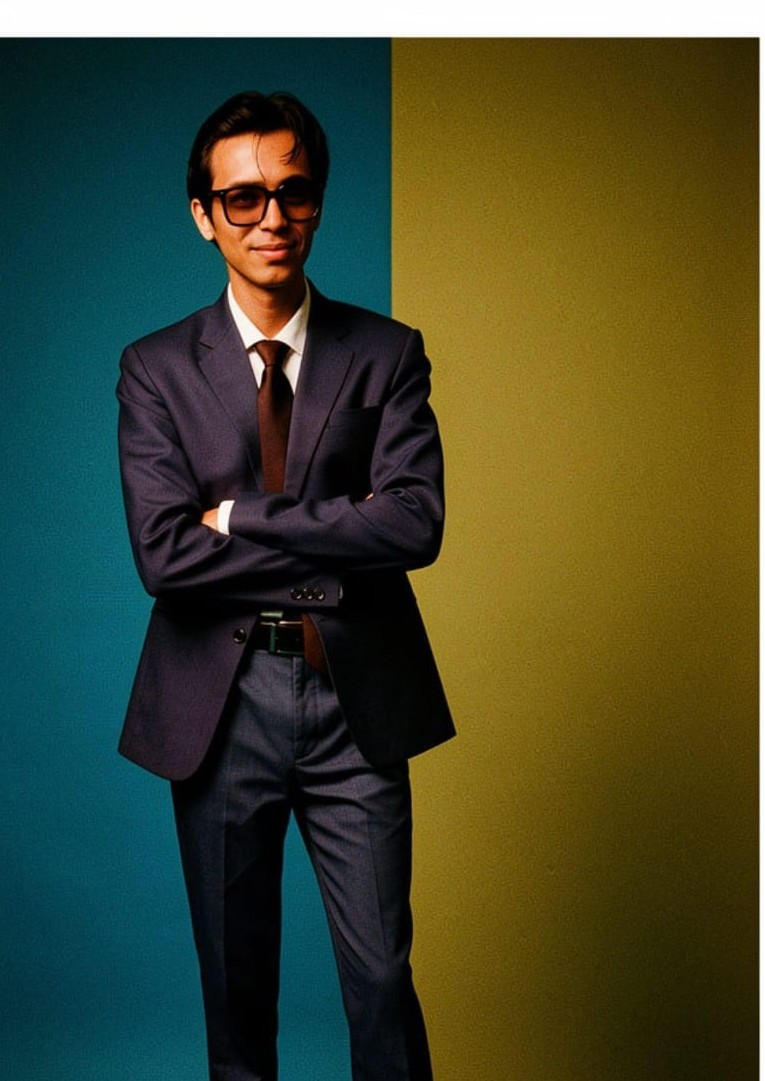
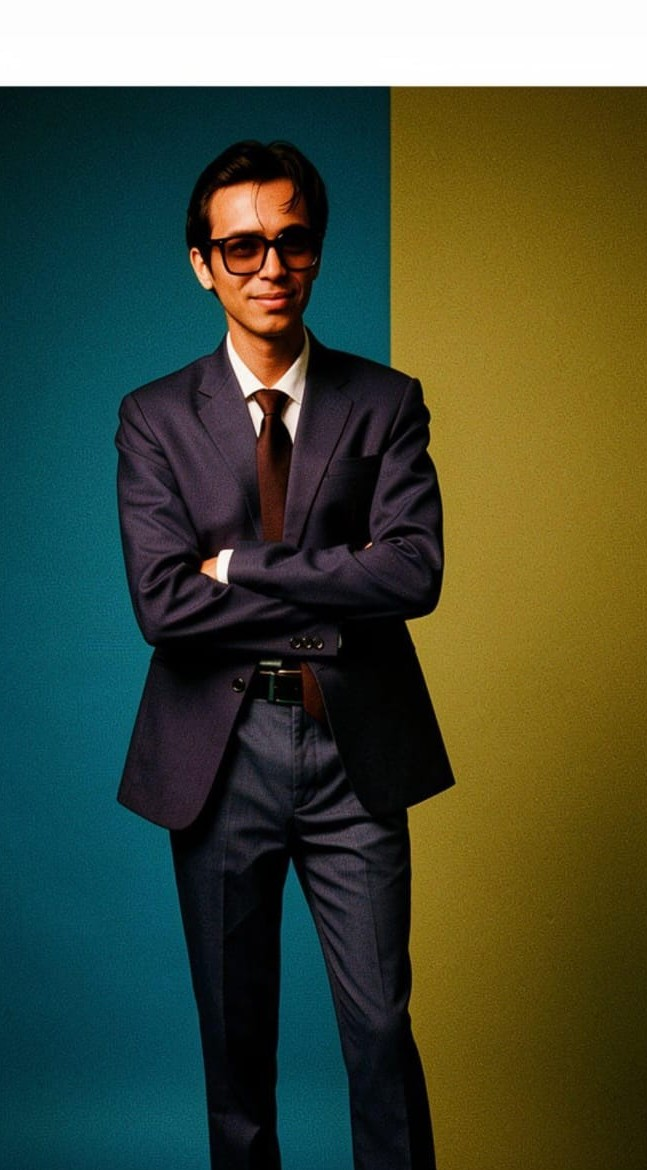
Update in Skills

diff --git a/index.html b/index.html
@@ -17,7 +17,7 @@
 </head>
 <body>
   <header class="header" id="top">
-    <a class="logo" href="#home">Ruthik<span>.</span></a>
+    <a class="logo" href="#home">Portfolio<span>.</span></a>
     <button class="menu-toggle" id="menuToggle" aria-label="Open navigation" aria-expanded="false" aria-controls="navbar"><span></span><span></span><span></span></button>
     <nav class="navbar" id="navbar" aria-label="Main navigation">
       <a class="active" href="#home">Home</a><a href="#about">About</a><a href="#experience">Experience</a><a href="#projects">Projects</a><a href="#research">Research</a><a href="#skills">Skills</a><a href="#contact">Contact</a>
@@ -33,17 +33,17 @@
         <p class="home-summary">I build intelligent applications with machine learning, LLMs and agentic systems — combining research curiosity with practical engineering.</p>
         <div class="social-media">
           <a href="https://www.linkedin.com/in/ruthik-garapati-793047268/" target="_blank" rel="noopener noreferrer" aria-label="LinkedIn">in</a>
-          <a href="https://github.com/garapatiruthik" target="_blank" rel="noopener noreferrer" aria-label="GitHub">⌘</a>
-          <a href="mailto:garapatiruthik@gmail.com" aria-label="Email">@</a>
+          <a href="https://github.com/garapatiruthik" target="_blank" rel="noopener noreferrer" aria-label="GitHub"><svg viewBox="0 0 24 24" aria-hidden="true" focusable="false"><path fill="currentColor" d="M12 .5a12 12 0 0 0-3.79 23.39c.6.11.82-.26.82-.58v-2.23c-3.34.73-4.04-1.42-4.04-1.42-.55-1.4-1.33-1.77-1.33-1.77-1.09-.75.08-.74.08-.74 1.2.08 1.83 1.23 1.83 1.23 1.07 1.82 2.8 1.3 3.49.99.11-.78.42-1.3.76-1.6-2.67-.3-5.47-1.34-5.47-5.95 0-1.32.47-2.39 1.23-3.23-.12-.3-.53-1.53.12-3.18 0 0 1-.32 3.3 1.23a11.5 11.5 0 0 1 6 0c2.29-1.55 3.29-1.23 3.29-1.23.65 1.65.24 2.88.12 3.18.77.84 1.23 1.91 1.23 3.23 0 4.62-2.8 5.64-5.48 5.94.43.37.81 1.1.81 2.22v3.3c0 .32.22.69.83.58A12 12 0 0 0 12 .5Z"/></svg></a>
+          <a href="mailto:garapatiruthik@gmail.com" aria-label="Email"><svg viewBox="0 0 24 24" aria-hidden="true" focusable="false"><rect x="3" y="5" width="18" height="14" rx="2" fill="none" stroke="currentColor" stroke-width="2"/><path d="m4 7 8 6 8-6" fill="none" stroke="currentColor" stroke-width="2" stroke-linecap="round" stroke-linejoin="round"/></svg></a>
         </div>
         <div class="home-actions">
-          <a class="btn" href="assets/Ruthik_Garapati_Resume.pdf" download="Ruthik_Garapati_Resume.pdf">Download CV <span>↓</span></a>
+          <a class="btn" href="Ruthik_Garapati_Resume.pdf" download="Ruthik_Garapati_Resume.pdf" type="application/pdf">Download CV <span>↓</span></a>
           <a class="btn btn-outline" href="#projects">Explore projects <span>↘</span></a>
         </div>
         <div class="hero-meta"><span><i></i> OPEN TO AI / ML OPPORTUNITIES</span><span>INDIA · SWEDEN EXPERIENCE</span></div>
       </div>
       <div class="home-img reveal reveal-delay">
-        <div class="photo-frame"><img src="photo-portfolio.jpeg" alt="Portrait of Ruthik Garapati" class="profile-image"></div>
+        <div class="photo-frame"><img src="photo-portfolio.jpg" alt="Portrait of Ruthik Garapati" class="profile-image"></div>
               </div>
     </section>
 
@@ -76,13 +76,12 @@
       <div class="section-heading reveal"><p class="section-kicker">03 / SELECTED PROJECTS</p><h2>Things I've <span>built & explored.</span></h2><p class="section-summary">A concise selection. Hover over a visual to reveal its project link; open the details for more context.</p></div>
       <div class="project-filters reveal" role="group" aria-label="Filter projects"><button class="filter active" data-filter="all" aria-pressed="true">All</button><button class="filter" data-filter="ai" aria-pressed="false">AI / GenAI</button><button class="filter" data-filter="ml" aria-pressed="false">ML / Data</button><button class="filter" data-filter="research" aria-pressed="false">Research</button></div>
       <div class="project-grid" id="projectGrid">
-        <article class="project-card reveal" data-category="ai"><div class="project-art art-travel"><span class="art-number">01 / AGENTIC AI</span><div class="mini-map"><i></i><b>A</b><b>B</b><b>C</b></div><div class="art-caption"><small>TRIP BUILDER</small><strong>Plan within budget.</strong><span>Transport · Stay · Itinerary</span></div><a class="art-link" href="https://github.com/garapatiruthik/Project-Agentic-AI" target="_blank" rel="noopener noreferrer" aria-label="Open AI Travel Planner GitHub repository">View project ↗</a></div><div class="project-body"><span class="project-type">LANGGRAPH · MCP · LLMS</span><h3>AI Travel Planner</h3><p>Agentic travel planning with transport, accommodation and itinerary tools, plus a budget-auditing feedback loop.</p><details class="more-details"><summary>Project details</summary><p>Uses LangGraph orchestration and custom MCP servers to connect external services such as maps, flight information and web search. The planner revises selections when the estimated trip cost exceeds the user's budget.</p></details></div></article>
-        <article class="project-card reveal" data-category="ai"><div class="project-art art-rag"><span class="art-number">02 / RETRIEVAL SYSTEMS</span><div class="doc-visual"><div></div><div></div><div></div></div><div class="rag-chip">SEMANTIC SEARCH <b>↗</b></div><a class="art-link" href="#experience" aria-label="View RAG screening experience">View experience ↗</a></div><div class="project-body"><span class="project-type">JUSTERA GROUP · PROFESSIONAL WORK</span><h3>RAG Resume Intelligence</h3><p>Retrieval-grounded resume screening workflow built to process 5,000+ documents, with AWS-supported inference and storage.</p><details class="more-details"><summary>Project details</summary><p>Focused on document processing and information retrieval to support candidate discovery. This was professional work, so implementation details and private data are not exposed in a public repository.</p></details></div></article>
-        <article class="project-card reveal" data-category="research"><div class="project-art art-thesis"><span class="art-number">03 / RESEARCH</span><div class="thesis-chart"><div><span>Chronos-T5</span><i class="bar long"></i><b>1.35 s</b></div><div><span>Mamba</span><i class="bar short"></i><b>7.16 ms</b></div></div><small>INFERENCE TIME · EVALUATED SETUP</small><a class="art-link" href="https://bth.diva-portal.org/smash/record.jsf?pid=diva2:2085482" target="_blank" rel="noopener noreferrer" aria-label="Open thesis research record">Read research ↗</a></div><div class="project-body"><span class="project-type">BACHELOR'S THESIS · BTH</span><h3>Chronos-T5 vs. Mamba</h3><p>Comparative analysis of foundation-model and state-space approaches for urban traffic forecasting on METR-LA.</p><details class="more-details"><summary>Key findings</summary><p>Chronos-T5 achieved lower MAE (1.58 mph vs. 4.57 mph), while Mamba showed faster inference (7.16 ms vs. 1.35 s) and lower KL divergence (1.07 vs. 16.45 bits). Weather covariates reduced Mamba's error by 10.57% in the evaluated setup.</p></details></div></article>
-        <article class="project-card reveal" data-category="ml"><div class="project-art art-vision"><span class="art-number">04 / COMPUTER VISION</span><div class="face-box"><span></span><i></i><b></b></div><div class="vision-label">MEDIAPIPE LANDMARKS</div><a class="art-link" href="https://github.com/garapatiruthik/Facial-Intoxication-detection" target="_blank" rel="noopener noreferrer" aria-label="Open facial intoxication detection repository">View project ↗</a></div><div class="project-body"><span class="project-type">OPENCV · MEDIAPIPE · RANDOM FOREST</span><h3>Facial Intoxication Detection</h3><p>Computer-vision prototype extracting facial measurements with MediaPipe and classifying feature patterns using Random Forest.</p><details class="more-details"><summary>Project details & limitations</summary><p>Built as an educational ML prototype with a Streamlit interface. It is not validated for medical, legal or safety-critical decisions.</p></details></div></article>
-        <article class="project-card reveal" data-category="ml"><div class="project-art art-dashboard"><span class="art-number">05 / DATA & BI</span><div class="dashboard-mini"><div class="dash-kpis"><i></i><i></i><i></i></div><div class="dash-bars"><b></b><b></b><b></b><b></b><b></b><b></b><b></b></div><small>BUSINESS OVERVIEW</small></div><a class="art-link" href="#experience" aria-label="View data analyst experience">View experience ↗</a></div><div class="project-body"><span class="project-type">PYTHON · PANDAS · STREAMLIT</span><h3>Salon Business Intelligence</h3><p>Interactive business dashboard exploring revenue, customer spending, visit frequency and repeat-customer patterns.</p><details class="more-details"><summary>Project details</summary><p>Cleaned and transformed business records into analysis-ready data, then presented key indicators through a Streamlit dashboard.</p></details></div></article>
-        <article class="project-card reveal" data-category="ai"><div class="project-art art-ticket"><span class="art-number">06 / HACKATHON</span><div class="ticket-visual"><b>TP</b><div><small>TICKET PRANALI</small><strong>MUSEUM ENTRY</strong><span>CHAT · BOOK · EXPLORE</span></div></div><a class="art-link" href="#recognition" aria-label="View Ticket Pranali hackathon recognition">View achievement ↗</a></div><div class="project-body"><span class="project-type">SMART INDIA HACKATHON · INTERNAL ROUND</span><h3>Ticket Pranali</h3><p>Museum ticketing concept with multilingual chatbot booking, time slots, visitor sequencing and indoor navigation ideas.</p><details class="more-details"><summary>Project details</summary><p>Led the team in shaping a visitor-focused solution combining conversational booking, payment concepts and analytics for museum operations. Won third prize in the internal round.</p></details></div></article>
-        <article class="project-card reveal" data-category="ai"><div class="project-art art-code"><span class="art-number">07 / IN DEVELOPMENT</span><div class="code-window"><span>agent.inspect()</span><span>agent.map_dependencies()</span><span>agent.generate_tests()</span><b>✓ architecture summary</b><b>↻ test generation</b></div><a class="art-link" href="#contact" aria-label="Discuss the codebase analyzer project">Discuss project ↗</a></div><div class="project-body"><span class="project-type">LANGGRAPH · MCP · PYTEST</span><h3>Agentic Codebase Analyzer</h3><p>In-progress developer tool for repository inspection, dependency mapping, technical documentation and automated test generation.</p><details class="more-details"><summary>Current scope</summary><p>Designed to inspect Python project structure, generate architecture summaries and pytest cases, then analyse execution failures. Public repository and measured benchmark results are not yet ready to showcase.</p></details></div></article>
+        <article class="project-card reveal" data-category="ai"><div class="project-art"><img class="project-image" src="TravelPlanner.png" alt="AI Travel Planner project preview" loading="lazy"><span class="art-number">01 / AGENTIC AI</span><span class="art-project-name">AI Travel Planner</span><a class="art-link" href="https://github.com/garapatiruthik/Project-Agentic-AI" target="_blank" rel="noopener noreferrer" aria-label="Open AI Travel Planner GitHub repository">View project ↗</a></div><div class="project-body"><span class="project-type">LANGGRAPH · MCP · LLMS</span><h3>AI Travel Planner</h3><p>Agentic travel planning with transport, accommodation and itinerary tools, plus a budget-auditing feedback loop.</p><details class="more-details"><summary>Project details</summary><p>Uses LangGraph orchestration and custom MCP servers to connect external services such as maps, flight information and web search. The planner revises selections when the estimated trip cost exceeds the user's budget.</p></details></div></article>
+        <article class="project-card reveal" data-category="ai"><div class="project-art"><img class="project-image" src="CodeAnalyzer.png" alt="Agentic Codebase Analyzer project preview" loading="lazy"><span class="art-number">07 / IN DEVELOPMENT</span><span class="art-project-name">Agentic Codebase Analyzer</span><a class="art-link" href="#contact" aria-label="Discuss the codebase analyzer project">Discuss project ↗</a></div><div class="project-body"><span class="project-type">LANGGRAPH · MCP · PYTEST</span><h3>Agentic Codebase Analyzer</h3><p>In-progress developer tool for repository inspection, dependency mapping, technical documentation and automated test generation.</p><details class="more-details"><summary>Current scope</summary><p>Designed to inspect Python project structure, generate architecture summaries and pytest cases, then analyse execution failures. Public repository and measured benchmark results are not yet ready to showcase.</p></details></div></article>
+        <article class="project-card reveal" data-category="ml"><div class="project-art"><img class="project-image" src="SportsAnalytics.png" alt="Sports Performance Analysis project preview" loading="lazy"><span class="art-number">08 / SPORTS ANALYTICS</span><span class="art-project-name">Sports Performance Analysis</span><a class="art-link" href="#recognition" aria-label="View sports analytics hackathon achievement">View achievement ↗</a></div><div class="project-body"><span class="project-type">MEDIAPIPE · PYTHON · MACHINE LEARNING</span><h3>Sports Performance Analysis</h3><p>MediaPipe-based sports performance analysis system with pose tracking and an accompanying sports trainer web application.</p><details class="more-details"><summary>Project details</summary><p>Developed as part of a hackathon team, contributing as AI lead and ideation lead to a solution focused on analysing athletic movements and supporting sports training.</p></details></div></article>
+        <article class="project-card reveal" data-category="ml"><div class="project-art"><img class="project-image" src="FaceDetection.png" alt="Facial Intoxication Detection project preview" loading="lazy"><span class="art-number">04 / COMPUTER VISION</span><span class="art-project-name">Facial Intoxication Detection</span><a class="art-link" href="https://github.com/garapatiruthik/Facial-Intoxication-detection" target="_blank" rel="noopener noreferrer" aria-label="Open facial intoxication detection repository">View project ↗</a></div><div class="project-body"><span class="project-type">OPENCV · MEDIAPIPE · RANDOM FOREST</span><h3>Facial Intoxication Detection</h3><p>Computer-vision prototype extracting facial measurements with MediaPipe and classifying feature patterns using Random Forest.</p><details class="more-details"><summary>Project details & limitations</summary><p>Built as an educational ML prototype with a Streamlit interface. It is not validated for medical, legal or safety-critical decisions.</p></details></div></article>
+        <article class="project-card reveal" data-category="ml"><div class="project-art"><img class="project-image" src="BusinessIntelligence.png" alt="Salon Business Intelligence project preview" loading="lazy"><span class="art-number">05 / DATA & BI</span><span class="art-project-name">Salon Business Intelligence</span><a class="art-link" href="#experience" aria-label="View data analyst experience">View experience ↗</a></div><div class="project-body"><span class="project-type">PYTHON · PANDAS · STREAMLIT</span><h3>Salon Business Intelligence</h3><p>Interactive business dashboard exploring revenue, customer spending, visit frequency and repeat-customer patterns.</p><details class="more-details"><summary>Project details</summary><p>Cleaned and transformed business records into analysis-ready data, then presented key indicators through a Streamlit dashboard.</p></details></div></article>
+        <article class="project-card reveal" data-category="ai"><div class="project-art"><img class="project-image" src="TicketPranali.png" alt="Ticket Pranali project preview" loading="lazy"><span class="art-number">06 / HACKATHON</span><span class="art-project-name">Ticket Pranali</span><a class="art-link" href="#recognition" aria-label="View Ticket Pranali hackathon recognition">View achievement ↗</a></div><div class="project-body"><span class="project-type">SMART INDIA HACKATHON · INTERNAL ROUND</span><h3>Ticket Pranali</h3><p>Museum ticketing concept with multilingual chatbot booking, time slots, visitor sequencing and indoor navigation ideas.</p><details class="more-details"><summary>Project details</summary><p>Led the team in shaping a visitor-focused solution combining conversational booking, payment concepts and analytics for museum operations. Won third prize in the internal round.</p></details></div></article>
       </div>
     </section>
 
@@ -96,9 +95,10 @@
       <div class="skills-grid">
         <article class="skill-card reveal"><span>01</span><h3>Generative AI & agentic systems</h3><p>LLMs · LangChain · LangGraph · RAG · MCP · LoRA · Soup · Tool calling</p></article>
         <article class="skill-card reveal"><span>02</span><h3>Machine learning & vision</h3><p>PyTorch · TensorFlow · scikit-learn · OpenCV · MediaPipe · Time-series modelling</p></article>
-        <article class="skill-card reveal"><span>03</span><h3>Data & analytics</h3><p>Python · Pandas · NumPy · SQL · Streamlit · Plotly · EDA</p></article>
-        <article class="skill-card reveal"><span>04</span><h3>Software & cloud</h3><p>FastAPI · AWS · Docker · Git · Linux · REST APIs · Java · C</p></article>
-        <article class="skill-card reveal"><span>05</span><h3>Web foundations</h3><p>Angular · TypeScript · JavaScript · HTML · CSS · React · Firebase · Spring Boot fundamentals</p></article>
+        <article class="skill-card reveal"><span>03</span><h3>Programming languages</h3><p>Python · Java · C · SQL</p></article>
+        <article class="skill-card reveal"><span>04</span><h3>Data & analytics</h3><p>Pandas · NumPy · Streamlit · Plotly · EDA</p></article>
+        <article class="skill-card reveal"><span>05</span><h3>Software & cloud</h3><p>FastAPI · AWS · Docker · Git · Linux · REST APIs</p></article>
+        <article class="skill-card reveal"><span>06</span><h3>Web foundations</h3><p>Angular · TypeScript · JavaScript · HTML · CSS · React · Firebase · Spring Boot fundamentals</p></article>
       </div>
     </section>
 

diff --git a/portfoliowebsite.css b/portfoliowebsite.css
@@ -11,12 +11,20 @@
 @media(max-width:950px){.navbar{gap:14px}.navbar a{font-size:12px}.project-grid{grid-template-columns:repeat(2,minmax(0,1fr))}.home{gap:4%}.home h1{font-size:clamp(45px,6vw,65px)}}
 @media(max-width:700px){.header{padding:13px 5%}.menu-toggle{display:flex;flex-direction:column;gap:5px;padding:9px;border:1px solid var(--line);border-radius:7px}.menu-toggle span{width:22px;height:2px;background:var(--text)}.navbar{display:none;position:absolute;top:100%;left:0;right:0;background:#252c36;padding:12px 6% 18px;flex-direction:column;align-items:stretch;gap:0;border-bottom:1px solid var(--line)}.navbar.open{display:flex}.navbar a{padding:10px 0;border-bottom:1px solid var(--line);font-size:14px}.home{grid-template-columns:1fr;min-height:auto;padding-top:45px;gap:30px}.home-img{grid-row:1;width:min(68%,330px);justify-self:center}.home-content{grid-row:2}.home h1{font-size:clamp(43px,12vw,62px)}.home h2{font-size:22px}.photo-tag{left:-15px;bottom:18px}.section{padding:65px 6%}.about-grid,.experience-grid,.research-card{grid-template-columns:1fr}.experience-card.featured{grid-column:auto}.project-grid,.skills-grid,.recognition-grid{grid-template-columns:1fr}.project-art{height:180px}.earlier-grid{grid-template-columns:1fr}.research-card{padding:22px}.hero-meta{margin-top:26px}.footer{padding:20px 6%;}}
 @media(prefers-reduced-motion:reduce){*,*:before,*:after{scroll-behavior:auto!important;animation-duration:.01ms!important;animation-iteration-count:1!important;transition-duration:.01ms!important}.reveal{opacity:1;transform:none}}
+.project-image{display:block;width:100%;height:100%;object-fit:contain}
+.art-project-name{position:absolute;left:15px;bottom:13px;z-index:2;max-width:calc(100% - 30px);padding:7px 10px;background:rgba(20,33,46,.9);border-left:2px solid var(--accent);font-size:13px;font-weight:600}
+.social-media svg{display:block;width:20px;height:20px}
+.experience-grid{grid-template-columns:1fr;position:relative;padding-left:34px}
+.experience-grid::before{content:"";position:absolute;left:8px;top:10px;bottom:10px;width:2px;background:linear-gradient(to bottom,var(--accent),rgba(0,238,255,.18))}
+.experience-card{position:relative}
+.experience-card::before{content:"";position:absolute;left:-31px;top:26px;width:12px;height:12px;border:2px solid var(--accent);border-radius:50%;background:var(--panel);box-shadow:0 0 12px var(--glow)}
+.experience-card.featured{grid-column:auto}
 
 
 /* =========================================================
    FINAL POLISH: replayable section entrances + transparent art
    Decorative images are optional. Set either opacity to 0 to hide.
-   Replace the SVG files in assets/images/ with your own transparent
+   Replace the SVG files in the project root with your own transparent
    PNG/WebP illustrations while keeping the same filenames.
    ========================================================= */
 :root{
@@ -52,7 +60,7 @@
   aspect-ratio:1 / 1;
   right:1%;
   bottom:-7%;
-  background:url("assets/images/education-illustration.svg") center / contain no-repeat;
+  background:url("education-illustration.svg") center / contain no-repeat;
   opacity:var(--education-art-opacity);
   pointer-events:none;
   transition:opacity .35s ease, transform .55s ease;
@@ -77,7 +85,7 @@
   height:220px;
   right:-28px;
   top:-38px;
-  background:url("assets/images/research-illustration.svg") center / contain no-repeat;
+  background:url("research-illustration.svg") center / contain no-repeat;
   opacity:var(--research-art-opacity);
   pointer-events:none;
   transition:opacity .4s ease, transform .6s ease;
@@ -122,4 +130,50 @@
     transition:none!important;
   }
   .education-card::after,.research-card::after{transition:none!important}
+}
+
+body{font-size:14px}
+.section{padding-top:72px;padding-bottom:72px}
+.header{padding-top:12px;padding-bottom:12px}
+.logo{font-size:23px}
+.navbar{gap:clamp(14px,2.2vw,30px)}
+.navbar a{font-size:13px}
+.home{min-height:calc(100vh - 60px);padding-top:50px;padding-bottom:36px}
+.home h1{font-size:clamp(42px,5.2vw,68px)}
+.home h2{font-size:clamp(21px,2.4vw,30px)}
+.home-summary{font-size:14px}
+.home-img{width:min(100%,440px)}
+.social-media{gap:12px;margin:22px 0}
+.social-media a{width:40px;height:40px}
+.btn{padding:10px 22px;font-size:13px}
+.section-heading{margin-bottom:28px}
+.section-heading h2{font-size:clamp(27px,3.6vw,41px)}
+.section-summary{font-size:12px}
+.info-card,.experience-card,.skill-card,.recognition-card{padding:22px}
+.info-card h3,.experience-card h3,.skill-card h3,.recognition-card h3{font-size:17px}
+.info-card p,.experience-card p,.recognition-card p{font-size:12px}
+.experience-grid{gap:16px}
+.experience-card h4{font-size:12px}
+.experience-card::before{top:22px}
+.project-grid,.recognition-grid{gap:13px}
+.project-art{height:170px}
+.project-body{padding:16px}
+.project-body h3{font-size:16px}
+.research-card{gap:25px;padding:24px}
+.research-card h3{font-size:clamp(17px,2vw,22px)}
+.research-metrics strong{font-size:21px}
+.skills-grid{gap:13px}
+.skill-card{min-height:140px}
+.recognition-card{min-height:135px}
+.contact h2{font-size:clamp(29px,3.5vw,43px)}
+.contact-content>p:not(.section-kicker):not(.copy-feedback){font-size:12px}
+.footer{padding-top:18px;padding-bottom:18px}
+
+@media(max-width:700px){
+  .section{padding:52px 6%}
+  .home-img{width:min(65%,300px)}
+  .home h1{font-size:clamp(39px,11vw,55px)}
+  .home h2{font-size:20px}
+  .research-card{gap:18px;padding:20px}
+  .about.section.alt::before{right:0;width:180px;height:180px}
 }
